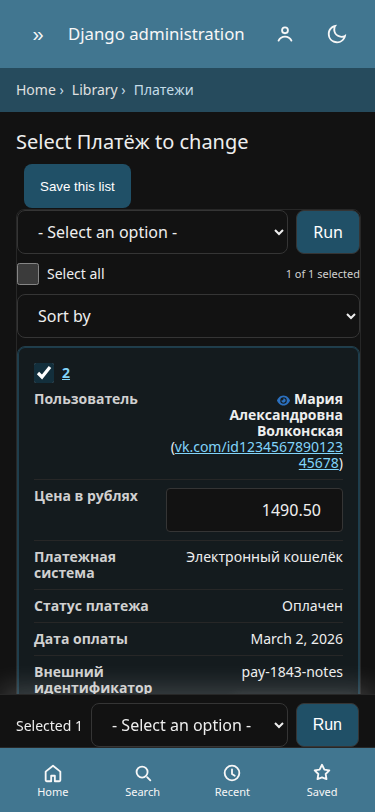
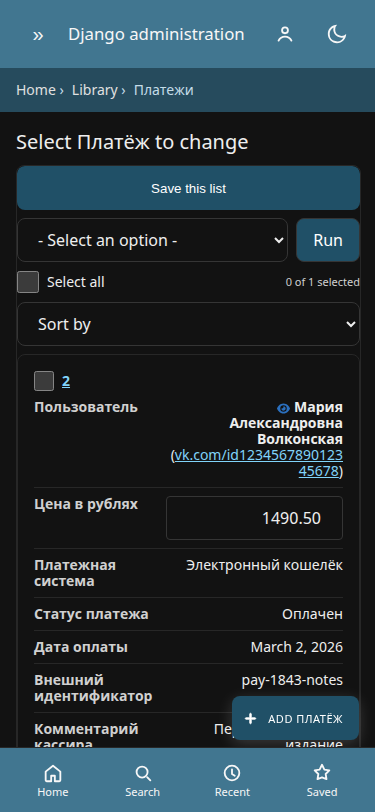
Align Save this list and hide the duplicate action row in 0.2.6.
The save control is full width on the 16px edge. The top action menu stays hidden while the sticky bulk bar is open, and remains in place when JavaScript is off.

diff --git a/src/admin_mobile/static/admin_mobile/css/admin_mobile_features.css b/src/admin_mobile/static/admin_mobile/css/admin_mobile_features.css
@@ -1449,6 +1449,36 @@ html[data-theme="auto"].admin-mobile {
         margin: 0 0 var(--am-space);
     }
 
+    html.admin-mobile body.change-list #toolbar {
+        padding: 0;
+    }
+
+    html.admin-mobile body.change-list .admin-mobile-save-model {
+        display: flex;
+        align-items: center;
+        justify-content: center;
+        align-self: stretch;
+        flex: 1 1 100%;
+        width: 100%;
+        max-width: 100%;
+        height: var(--am-tap);
+        min-height: var(--am-tap);
+        margin: 0 0 var(--am-space);
+        padding: 0 var(--am-pad);
+        border: 0;
+        border-radius: var(--am-radius);
+        box-sizing: border-box;
+        background: var(--button-bg);
+        color: var(--button-fg);
+    }
+
+    html.admin-mobile body.change-list #changelist .actions.admin-mobile-actions-delegated > label:not(.admin-mobile-select-all),
+    html.admin-mobile body.change-list #changelist .actions.admin-mobile-actions-delegated > .button,
+    html.admin-mobile body.change-list #changelist .actions.admin-mobile-actions-delegated > button,
+    html.admin-mobile body.change-list #changelist .actions.admin-mobile-actions-delegated > input[type="submit"] {
+        display: none;
+    }
+
     html.admin-mobile body.change-list #toolbar,
     html.admin-mobile body.change-list #changelist .actions,
     html.admin-mobile body.change-list .toplinks,

diff --git a/src/admin_mobile/static/admin_mobile/js/admin_mobile_features.js b/src/admin_mobile/static/admin_mobile/js/admin_mobile_features.js
@@ -284,9 +284,14 @@
             localStorage.setItem("admin-mobile-favorites", JSON.stringify(items.slice(0, 12)));
             button.textContent = "Saved";
         });
+        var changelist = document.getElementById("changelist");
         var toolbar = document.getElementById("toolbar");
         if (toolbar) {
-            toolbar.appendChild(button);
+            toolbar.insertAdjacentElement("afterend", button);
+            return;
+        }
+        if (changelist) {
+            changelist.insertAdjacentElement("afterbegin", button);
             return;
         }
         var tools = document.querySelector(".object-tools");
@@ -366,10 +371,14 @@
             bar.appendChild(runClone);
         }
         document.body.appendChild(bar);
+        var actionRows = document.querySelectorAll("#changelist .actions");
         function refresh() {
             var selected = form.querySelectorAll("input.action-select:checked, .action-checkbox input:checked").length;
             label.textContent = "Selected " + selected;
             bar.hidden = selected === 0;
+            Array.prototype.forEach.call(actionRows, function (row) {
+                row.classList.toggle("admin-mobile-actions-delegated", selected > 0);
+            });
         }
         form.addEventListener("change", refresh);
         refresh();

diff --git a/tests/test_playwright.py b/tests/test_playwright.py
@@ -359,9 +359,28 @@ def test_builtin_admin_surfaces(
         }"""
     )
     assert aligned is True
+    save_edge = page.evaluate(
+        """() => {
+            const save = document.querySelector('.admin-mobile-save-model');
+            const select = document.querySelector('#changelist .actions select');
+            const run = document.querySelector('#changelist .actions button');
+            const saveBox = save.getBoundingClientRect();
+            const selectBox = select.getBoundingClientRect();
+            const runBox = run.getBoundingClientRect();
+            return Math.abs(saveBox.left - selectBox.left) <= 2
+                && Math.abs(saveBox.right - runBox.right) <= 2
+                && saveBox.height >= 40;
+        }"""
+    )
+    assert save_edge is True
+    expect(page.locator("#changelist .actions select")).to_be_visible()
+    expect(page.locator(".admin-mobile-bulkbar")).to_be_hidden()
+    _pair(page, "payments-375.png")
     page.locator("#result_list .action-checkbox input").first.check()
     bar = page.locator(".admin-mobile-bulkbar")
     expect(bar).to_be_visible()
+    expect(page.locator("#changelist .actions select")).to_be_hidden()
+    expect(page.locator("#admin-mobile-select-all")).to_be_visible()
     row_fit = bar.evaluate(
         """element => {
             const select = element.querySelector('select');
@@ -381,7 +400,7 @@ def test_builtin_admin_surfaces(
         "element => getComputedStyle(element).backgroundColor"
     )
     assert tint != "rgb(228, 228, 228)"
-    _pair(page, "payments-375.png")
+    _pair(page, "payments-selected-375.png")
 
     page.goto(f"{base_url}{catalog['edition']}")
     expect(page.locator("input[name='series']")).to_be_visible()

diff --git a/src/admin_mobile/__init__.py b/src/admin_mobile/__init__.py
@@ -1,3 +1,3 @@
 """Phone ergonomics for the native Django admin."""
 
-__version__ = "0.2.5"
+__version__ = "0.2.6"

diff --git a/CHANGELOG.md b/CHANGELOG.md
@@ -1,5 +1,10 @@
 # Changelog
 
+## 0.2.6
+
+- “Save this list” is a full-width 44px control on the same 16px edge as the rest of the changelist.
+- While the sticky bulk bar is open, the top action menu and Run are hidden. Select all and the count stay. With JavaScript off, that top row stays in place.
+
 ## 0.2.5
 
 - A selected changelist card uses a light accent tint and outline instead of Django’s flat selected-row fill.

diff --git a/README.md b/README.md
@@ -167,9 +167,9 @@ uv run tox
 
 ## Publishing
 
-0.1.0 is already on PyPI. This tree is 0.2.5 and is not published from here.
+0.1.0 is already on PyPI. This tree is 0.2.6 and is not published from here.
 
-1. Tag `0.2.5` when you want a release.
+1. Tag `0.2.6` when you want a release.
 2. Build: `uv build`.
 3. Publish: `uv publish` with a PyPI token.
 
